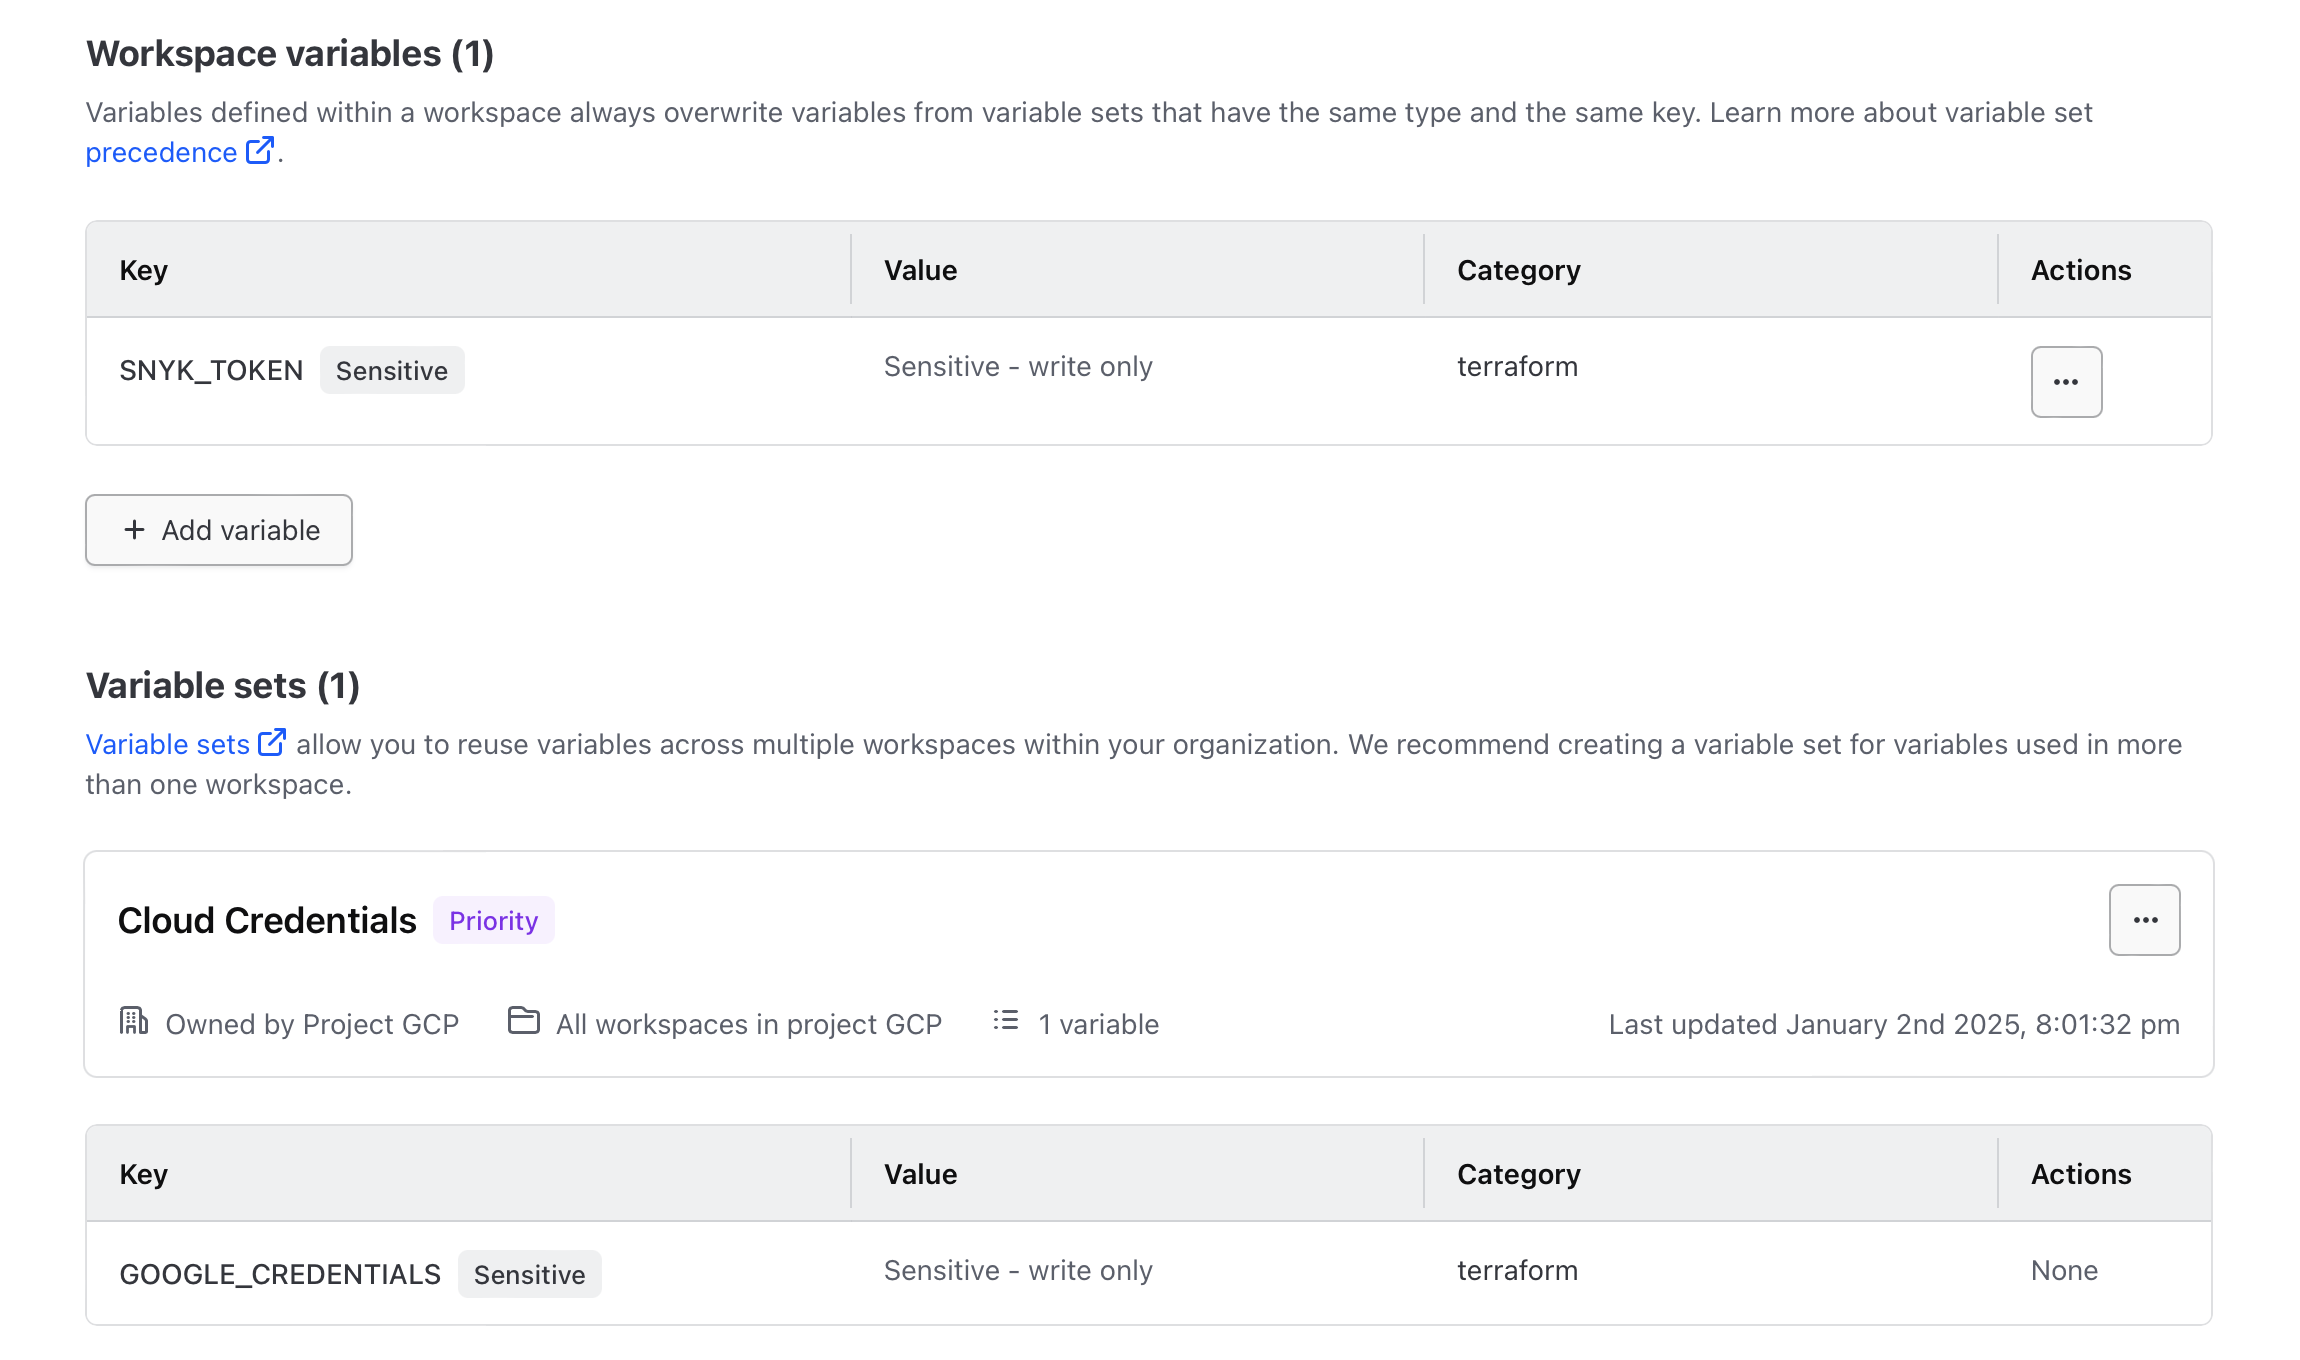
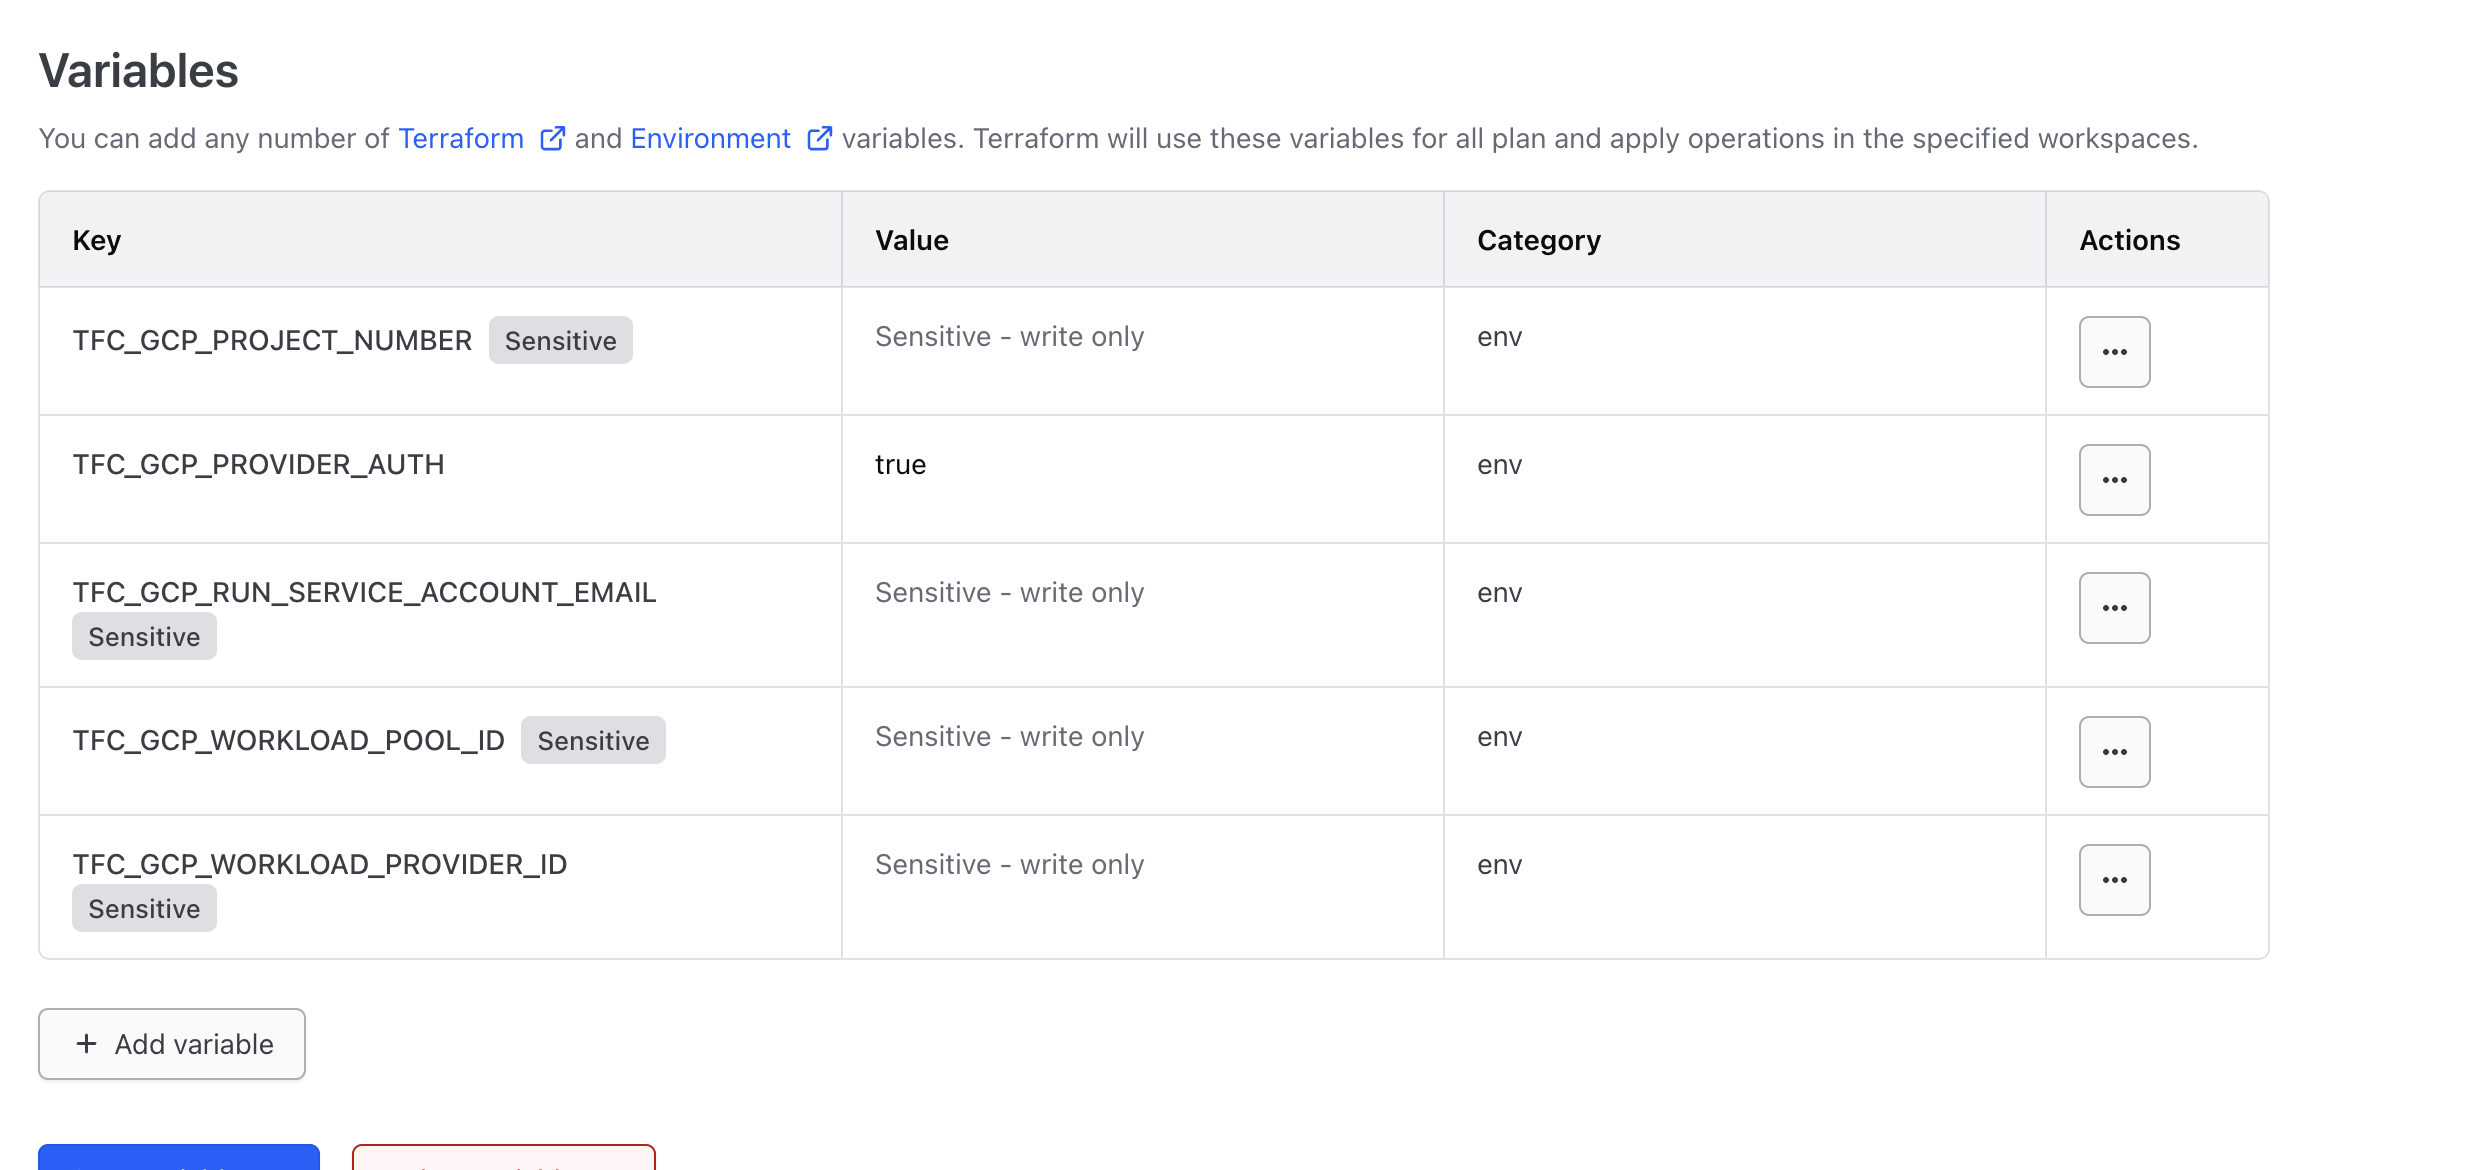
finalizing changes

diff --git a/docs/projects/devsecops-pipeline-gcp/setup/creating-deployment-sa.md b/docs/projects/devsecops-pipeline-gcp/setup/creating-deployment-sa.md
@@ -1,0 +1,93 @@
+---
+id: configuring-deployment-user-gcp
+title: Configuring Deployment Service Account in GCP
+sidebar_position: 4
+---
+
+## Overview
+
+This guide walks you through setting up a Google Cloud Platform (GCP) Service Account for **Terraform Cloud** deployments using **OIDC (OpenID Connect)** via **Workload Identity Federation (WIF)**. This setup allows Terraform Cloud to securely authenticate to GCP without relying on long-lived service account keys, ultimately enabling short-lived, scoped credentials per workspace.
+
+> ✅ **Before you begin:** Ensure you have a GCP project available and sufficient permissions to create service accounts and manage IAM.
+
+## Step 1: Create and Configure the Service Account
+
+1. **Log in to your GCP account.**
+
+2. In the left-hand menu, go to:  
+   **IAM & Admin** → **Service Accounts**
+
+3. Click **Create Service Account**, and fill in:
+
+   - **Name**: `terraform-deployer`
+   - **Description**: (optional)
+   - Click **Create and Continue**
+
+   ![Service Account Creation Screenshot](/img/projects/devsecops-pipeline-gcp/setup/service-account-creation.png)
+
+4. **Grant the following roles** to the service account:
+
+   - `Editor`
+   - `Project IAM Admin`
+   - `Role Administrator`
+   - `Secret Manager Admin`
+   - `Secret Manager Secret Accessor`
+   - `IAM Service Account Token Creator`
+
+5. Under **Grant users access to this service account**, leave it blank and click **Done**.
+
+## Step 2: Configure Workload Identity Federation
+
+1. In the GCP Console, go to **IAM & Admin** → **Workload Identity Federation**
+
+2. Click **Create Pool** and enter the following:
+
+   - **Pool Name**: `Terraform Cloud`
+   - **Pool ID**: `terraform-cloud`
+   - ✅ Check the box: **Enabled Provider**
+
+3. In the same flow, add a new provider:
+
+   - **Provider Type**: `OIDC`
+   - **Provider Name**: `default`
+   - **Issuer URL**: `https://app.terraform.io`
+   - **Audiences**: Select `Default Audience`
+
+4. **Configure Attribute Mappings**:
+
+   | Google Attribute                     | OIDC Assertion                       |
+   | ------------------------------------ | ------------------------------------ |
+   | `attribute.terraform_full_workspace` | `assertion.terraform_full_workspace` |
+   | `google.sub`                         | `assertion.sub`                      |
+   | `attribute.terraform_workspace`      | `assertion.terraform_workspace_id`   |
+
+5. **Add Attribute Condition**:
+
+   ```hcl
+   assertion.terraform_organization_name == "DSB"
+   ```
+
+6. Click **Create** to finalize the pool and provider.
+
+## Step 3: Grant Access via Impersonation
+
+1. After the pool and provider are created, click **Grant Access**.
+
+2. Choose **Grant access using service account impersonation**.
+
+3. Select the previously created service account (`terraform-deployer`).
+
+4. Add the **Terraform Workspace Principal**:
+
+   - Use your workspace ID to define the principal.
+   - Example format:
+
+   ```text
+   principalSet://iam.googleapis.com/projects/<project-number>/locations/global/workloadIdentityPools/terraform-cloud/attribute.terraform_workspace_id/<workspace-id>
+   ```
+
+   ![Service Account Grant Screenshot](/img/projects/devsecops-pipeline-gcp/setup/grant-sa-permissions-oidc.png)
+
+With this setup complete, Terraform Cloud will now be able to authenticate to GCP using OIDC and impersonate the `terraform-deployer` service account during runs — **without the need for storing or rotating service account keys**.
+
+You can now move on to configuring your Terraform provider and environment variables.

diff --git a/docs/projects/devsecops-pipeline-gcp/setup/secrets-configuration.md b/docs/projects/devsecops-pipeline-gcp/setup/secrets-configuration.md
@@ -1,6 +1,6 @@
 ---
 id: config-secrets-gcp
-title: Configuring Secrets and Environment Variables in GCP
+title: Configuring Secrets and Environment Variables
 sidebar_position: 5
 ---
 
@@ -19,8 +19,16 @@ Now that the foundational setup is complete, this guide will walk you through co
    - **Name**: Provide a meaningful name for the variable set.
    - **Description**: Add a brief description for clarity.
    - **Variable Set Scope**: Select **Apply to all projects and workspaces**. (You can modify this later if needed.)
-4. Scroll down to the **Variables** section and click **Add Variable**. Add the following keys, marking them as **Sensitive**:
-   - `GOOGLE_CREDENTIALS`: Paste the contents of your GCP service account JSON key file.
+4. Scroll down to the **Variables** section and click **Add Variable**. Add the following keys, marking them as **Sensitive** except for `TFC_GCP_PROVIDER_AUTH`:
+
+   | Variable Name                       | Description                                                                 |
+   | ----------------------------------- | --------------------------------------------------------------------------- |
+   | `TFC_GCP_RUN_SERVICE_ACCOUNT_EMAIL` | The email of the GCP service account that Terraform Cloud will impersonate. |
+   | `TFC_GCP_PROJECT_NUMBER`            | The numeric project ID of your GCP project.                                 |
+   | `TFC_GCP_PROVIDER_AUTH`             | Set to `true` to enable Workload Identity Federation for authentication.    |
+   | `TFC_GCP_WORKLOAD_POOL_ID`          | The ID of the Workload Identity Pool created in GCP.                        |
+   | `TFC_GCP_WORKLOAD_PROVIDER_ID`      | The ID of the OIDC Provider associated with the identity pool.              |
+
 5. Navigate to the workspace, and click on Variables, and create a Workspace variable named `SNYK_TOKEN`, making it sensitive. Paste the value of the API Key or token in it and save it.
 
    ![alt text](/img/projects/devsecops-pipeline-gcp/setup/tf-snyk-variable.png)
